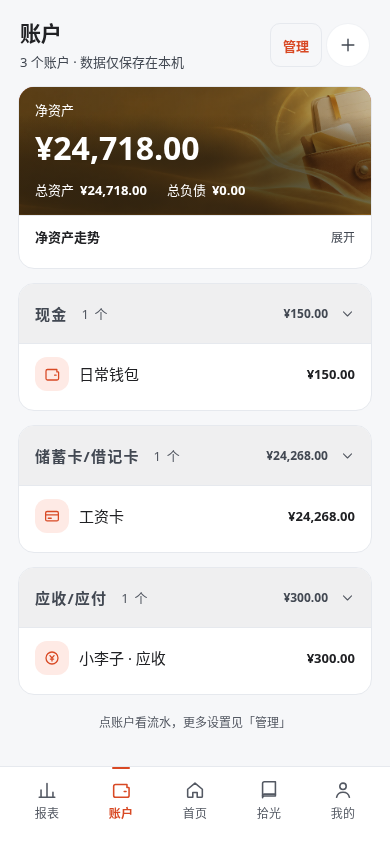
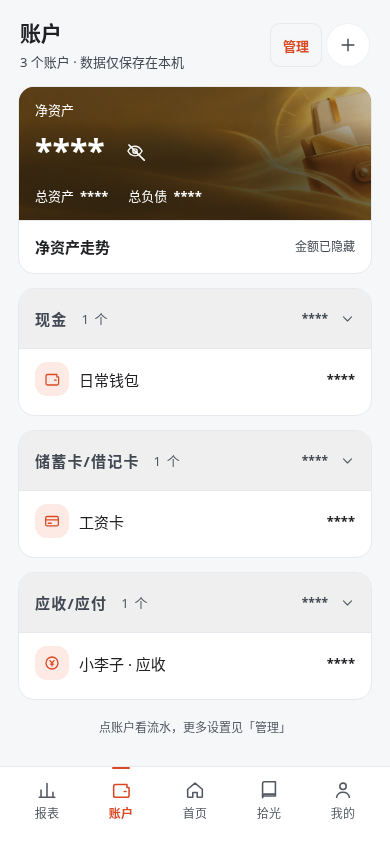
docs: 更新 v1.11.41 项目介绍与账户截图

diff --git a/app/e2e/capture_readme.py b/app/e2e/capture_readme.py
@@ -141,7 +141,8 @@ def run(browser, width):
 
         page.locator('[data-page="page-acct"]').click()
         page.locator('[data-acct="3"]').wait_for()
-        page.get_by_role('button', name='显示金额', exact=True).click()
+        expect(page.get_by_role('button', name='显示金额', exact=True)).to_be_visible()
+        expect(page.locator('#page-acct [data-account-visible]:visible')).to_have_count(0)
         capture(page, 'accounts', width, '#page-acct')
 
         page.locator('[data-page="page-report"]').click()

diff --git a/README.md b/README.md
@@ -2,7 +2,7 @@
 
 https://github.com/user-attachments/assets/e23ed9e9-f84b-4ba6-a50a-91313b2ed70b
 
-**[下载 1080p 原片](docs/assets/promo/gleam-warm-life.mp4?raw=true)** · 64 秒 · [查看封面](docs/assets/promo/gleam-warm-life-cover.jpg) · [v1.11.36](https://github.com/luwenyan02/Gleam/releases/tag/v1.11.36)
+**[下载 1080p 原片](docs/assets/promo/gleam-warm-life.mp4?raw=true)** · 64 秒 · [查看封面](docs/assets/promo/gleam-warm-life-cover.jpg) · 视频制作于 [v1.11.36](https://github.com/luwenyan02/Gleam/releases/tag/v1.11.36)
 
 **记账，也记生活。**
 
@@ -14,11 +14,11 @@ https://github.com/user-attachments/assets/e23ed9e9-f84b-4ba6-a50a-91313b2ed70b
 
 **[下载 Android 安装包](https://github.com/luwenyan02/Gleam/releases/latest)** · [看看界面](#看看界面) · [数据与备份](docs/data-backup.md) · [本地运行](#本地运行)
 
-这份介绍以 **v1.11.36** 已发布功能为准。视频使用虚构账目；语音及部分 AI 内容为模拟演示。
+这份介绍以 **v1.11.41** 已发布功能为准。视频使用虚构账目；语音及部分 AI 内容为模拟演示。
 
 ## 看看界面
 
-以下是 v1.11.32 网页生产构建的真实截图，使用虚构账目与本地模拟 AI 回复；语音画面通过模拟原生通道展示，未实际收音。点击可查看原图；[截图来源与复现方法](docs/assets/screenshots/README.md)单独记录。
+以下是网页生产构建的真实截图：账户页来自 v1.11.41，其余画面来自 v1.11.32。截图使用虚构账目与本地模拟 AI 回复；语音画面通过模拟原生通道展示，未实际收音。点击可查看原图；[截图来源与复现方法](docs/assets/screenshots/README.md)单独记录。
 
 <!-- SCREENSHOTS_START -->
 ### 开口记账，顺手聊聊
@@ -37,7 +37,7 @@ https://github.com/user-attachments/assets/e23ed9e9-f84b-4ba6-a50a-91313b2ed70b
 
 | 首页 | 账户 | 报表 |
 | --- | --- | --- |
-| [![首页：收支、预算和日常流水](docs/assets/screenshots/home-demo.png)](docs/assets/screenshots/home-demo.png) | [![账户：余额、应收应付与净资产](docs/assets/screenshots/accounts-demo.png)](docs/assets/screenshots/accounts-demo.png) | [![报表：分类排行与收支统计](docs/assets/screenshots/report-demo.png)](docs/assets/screenshots/report-demo.png) |
+| [![首页：收支、预算和日常流水](docs/assets/screenshots/home-demo.png)](docs/assets/screenshots/home-demo.png) | [![账户：默认隐藏金额，点击眼睛可显示](docs/assets/screenshots/accounts-demo.png)](docs/assets/screenshots/accounts-demo.png) | [![报表：分类排行与收支统计](docs/assets/screenshots/report-demo.png)](docs/assets/screenshots/report-demo.png) |
 
 | 生活记录 | 和拾光聊聊 | 拾光周刊 |
 | --- | --- | --- |
@@ -57,9 +57,11 @@ https://github.com/user-attachments/assets/e23ed9e9-f84b-4ba6-a50a-91313b2ed70b
 
 ## 想查一笔，或看清一个月
 
-记下来的账可以按日历翻，也可以用关键词、账户、分类、标签和商家组合筛选。流水多时，快速滑动会唤出右侧的快滑胶囊：拖动定位，或一键回到顶部、跳到已加载流水的末尾；停下来后自动收起。需要更早的记录，再到底部继续上拉加载。
+记下来的账可以按日历翻，也可以用关键词、账户、分类、标签和商家组合筛选。搜索先显示 100 笔，每次可再加载 100 笔，也可以一次查看全部；汇总金额和批量全选始终覆盖所有匹配结果。分类管理会先显示列表，笔数随后补齐。
 
-账户页可以看余额、逐笔余额变化和净资产走势，管理信用卡账单、额度与还款。报表支持周、月、年和自定义时段，预算也能按自己的财务月安排。
+首页流水多时，快速滑动会唤出右侧的快滑胶囊：拖动定位，或一键回到顶部、跳到已加载流水的末尾；停下来后自动收起。需要更早的记录，再到底部继续上拉加载。
+
+账户页默认隐藏净资产和账户金额，点击眼睛即可显示；重新打开应用后恢复隐藏。这里还能查看逐笔余额变化和净资产走势，管理信用卡账单、额度与还款；设置了额度的信用卡，在支出详情里也能看到当前剩余额度或超额金额。报表支持周、月、年和自定义时段，预算也能按自己的财务月安排。
 
 想让 AI 帮忙分析时，可以问「最近 30 天花了多少」「这个月哪里花得多」，或看上月对比、近 6 个月趋势。先确认分析范围，拾光在本机算好汇总，再交给模型解释；结果可以回到原账单核对，聊天不会自动改账。
 
@@ -76,7 +78,7 @@ https://github.com/user-attachments/assets/e23ed9e9-f84b-4ba6-a50a-91313b2ed70b
 
 ## 数据留在手里
 
-账单、生活记录、会话和附件默认保存在本机，不需要注册拾光账号。完整数据可以导出为加密 `.skbak` 备份，也可以备份到自己的 WebDAV、S3 兼容存储，或在 Android 上通过 QQ 邮箱发送加密备份。换设备时，用备份文件恢复。
+账单、生活记录、会话和附件默认保存在本机，不需要注册拾光账号。完整数据可以导出为加密 `.skbak` 备份，也可以备份到自己的 WebDAV、S3 兼容存储，或在 Android 上通过 QQ 邮箱发送加密备份。换设备时，用备份文件恢复；恢复过程中可以查看进度。
 
 聊天与附件点击发送后、语音连接后，会发送给你配置的 AI 服务；整理记录、生成周刊和分析账单数据前，会先确认发送内容。使用云盘或邮件备份时，备份文件会发送到你指定的目的地。服务密钥不打包进数据备份，换设备后需要重新配置。具体范围见[隐私说明](PRIVACY.md)。
 
@@ -86,7 +88,7 @@ https://github.com/user-attachments/assets/e23ed9e9-f84b-4ba6-a50a-91313b2ed70b
 
 **Android 7.0 及以上**：在 [Releases](https://github.com/luwenyan02/Gleam/releases/latest) 下载 APK，页面同时提供 SHA-256 校验文件。安装后即可手动记账；已有版本可从「我的 → 关于和帮助 → 关于拾光」检查新版，升级说明见对应 Release。
 
-**AI 功能**：在设置中选择平台、模型并填写自己的 API Key。图片识别需要支持图片的模型；Android 短语音和语音聊使用阿里百炼，需要完成语音配置与连接测试，服务可能按用量收费。[短语音记账](docs/SHORT_VOICE_ENTRY.md)和[语音聊](docs/REALTIME_VOICE.md)有具体说明。
+**AI 功能**：在「我的 → AI 配置」中选择平台、模型并填写自己的 API Key。图片识别需要支持图片的模型；Android 短语音和语音聊使用阿里百炼，需要完成语音配置与连接测试，服务可能按用量收费。[短语音记账](docs/SHORT_VOICE_ENTRY.md)和[语音聊](docs/REALTIME_VOICE.md)有具体说明。
 
 **PWA**：自行运行网页后可安装为网页应用，核心记账与记录功能可离线使用。开发网页版语音聊需要额外配置本机中转，离线 PWA 不包含该服务；Android 语音功能直接使用原生通道。
 

diff --git a/docs/assets/screenshots/README.md b/docs/assets/screenshots/README.md
@@ -2,13 +2,13 @@
 
 本目录保存项目介绍用的真实应用截图。使用隔离浏览器与虚构数据，不包含用户账目、照片或凭据。
 
-## 当前截图：v1.11.32
+## 账本与生活记录截图：v1.11.32
 
 - 应用源码：[5599294](https://github.com/luwenyan02/Gleam/commit/559929462dc5b25833ec405e23ccf58d90636942)，对应正式发布 [v1.11.32](https://github.com/luwenyan02/Gleam/releases/tag/v1.11.32)。本轮只更新介绍、说明与截图，未修改应用代码。
 - 捕获日期：2026-10-22（Asia/Shanghai）。使用该版本生产构建和 Playwright Chromium 重新运行 `capture_readme.py`，不是给历史图片换版本标签。
 - 数据：脚本为每种宽度创建全新浏览器上下文和虚构数据库。演示时钟固定为 **2026-10-02 12:00 Asia/Shanghai**，因此画面中的日期与捕获日期不同。
 - AI：聊天和周刊采用本地模拟回复；除测试应用来源和已拦截的模拟请求外，其余网络请求阻止。截图不代表真实模型回答质量。
-- 尺寸：360、390、430、1280px 四种宽度，各生成首页、账户、报表、生活记录、聊天、周刊、借贷七张，共28张。本目录选用390 × 844px原图。
+- 尺寸：360、390、430、1280px 四种宽度，各生成首页、账户、报表、生活记录、聊天、周刊、借贷七张，共28张。本目录选用390 × 844px原图；账户页后来更新为 v1.11.41。
 - 检查：等待页面内容、提示消失和动画稳定，检查横向溢出及浏览器错误；七张账本与生活记录原图已逐张查看。没有重绘、裁切、拼接或修改应用像素。
 - 平台：网页生产构建截图，不是 Android 真机截图。安装、权限、系统返回、蓝牙及真实语音服务的验证范围见对应 Release。
 
@@ -17,6 +17,12 @@
 ### 演示账户名称更新（2026-10-23）
 
 按用户要求，将截图脚本中的虚构应收账户改为“小李子 · 应收”。沿用上述 v1.11.32 应用源码与演示时钟，在隔离浏览器中重新捕获账户、借贷两张截图，并同步更新校验值。四种宽度均检查名称、金额、横向溢出及浏览器错误；发布的390 × 844px原图与旧图仅姓名文字区域存在像素差异，其余画面一致。没有编辑截图像素；不涉及用户账户数据。
+
+### 账户金额默认隐藏（2026-10-27）
+
+账户截图更新为正式发布 [v1.11.41](https://github.com/luwenyan02/Gleam/releases/tag/v1.11.41) 的网页构建，来自提交 [761194d](https://github.com/luwenyan02/Gleam/commit/761194d6b531e7f6cacc157aa88a8ca5bb199de8)。沿用虚构账目和固定演示时钟，展示默认隐藏金额的状态，并保留“小李子 · 应收”。`capture_readme.py` 现在也按这一默认状态截图。
+
+在隔离浏览器中检查 360、390、400 和 430px 宽度，确认默认隐藏、眼睛按钮切换、名称、横向溢出与浏览器错误；阻止所有外部请求。本目录选用 390 × 844px 原图，已实际查看，没有编辑截图像素。400px 是小米 14 的模拟宽度，不能代表真机截图。
 
 ### 短语音记账与语音聊
 
